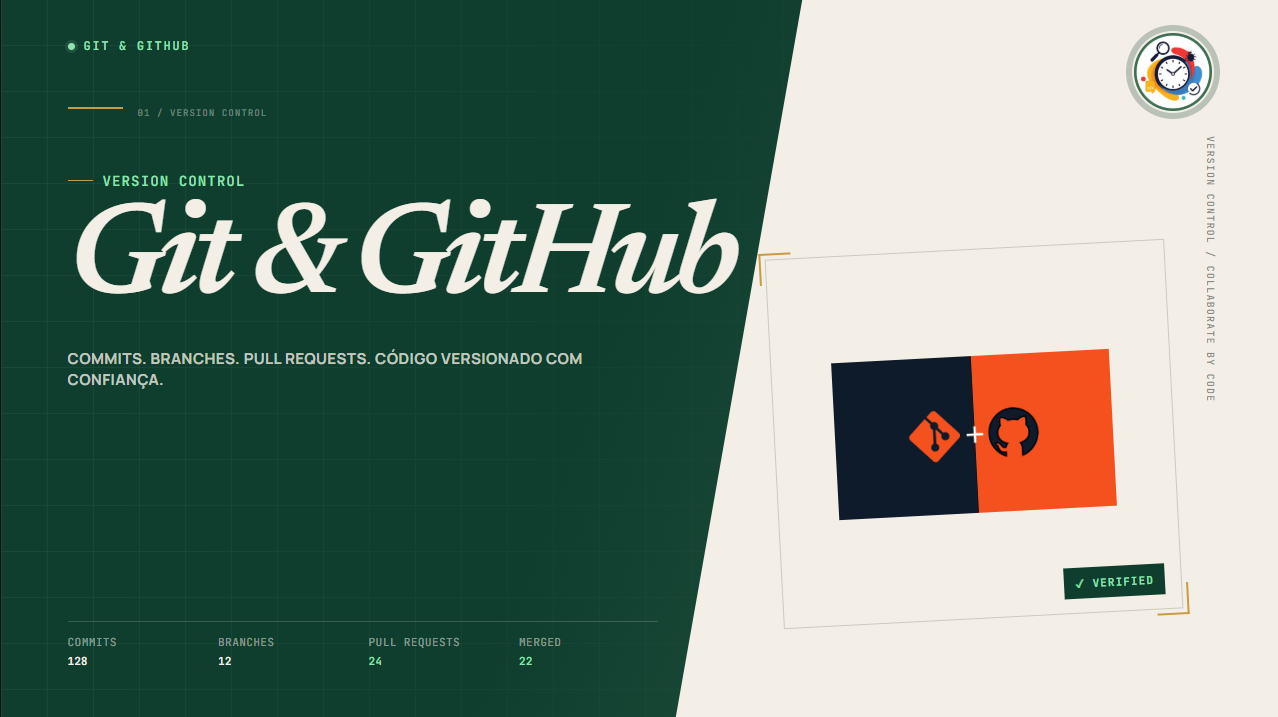
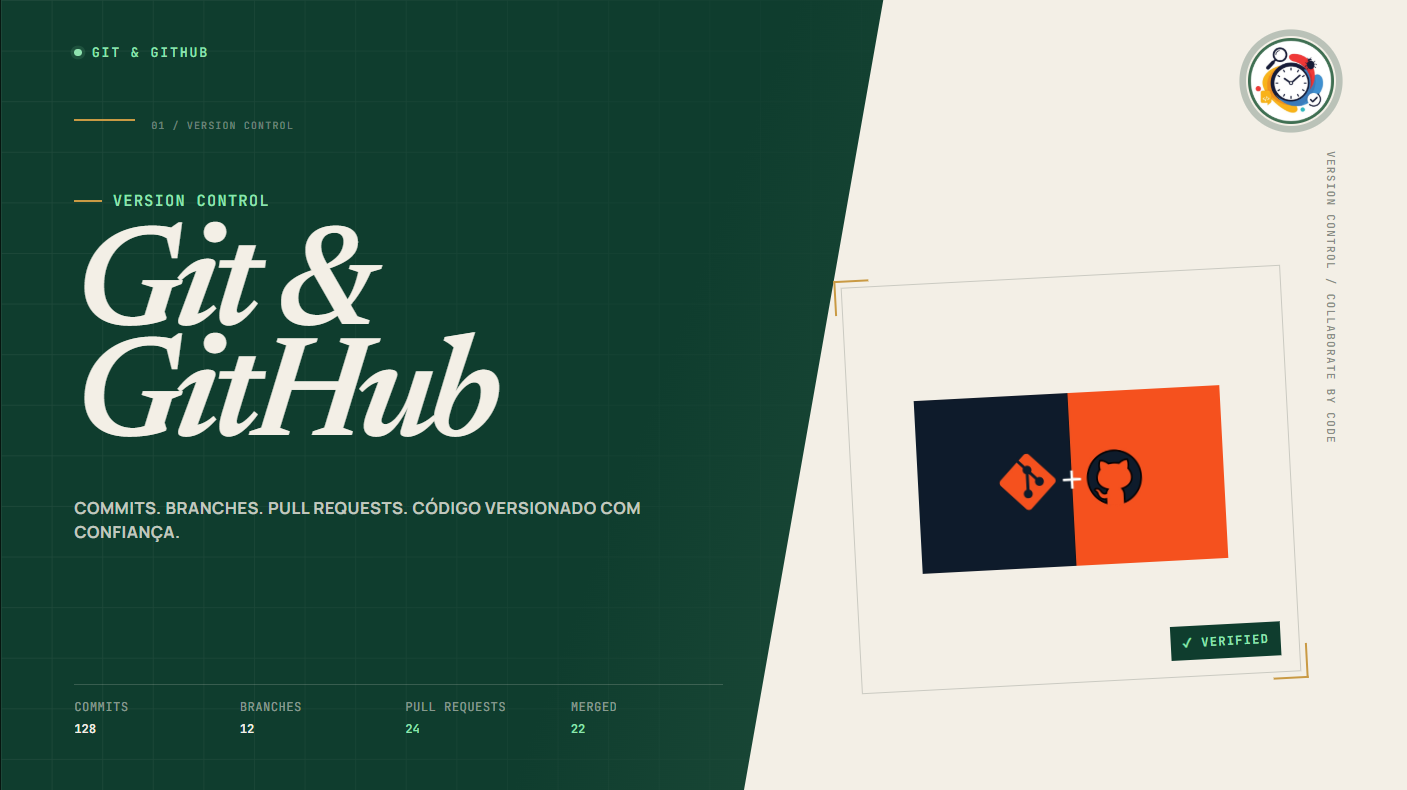
fix: Corrigindo página do git-github

diff --git a/Thumbnail/git-github/index.html b/Thumbnail/git-github/index.html
@@ -734,7 +734,8 @@
 
       <h1>
 
-        Git & GitHub
+        Git & <br>
+        GitHub
 
       </h1>
 
